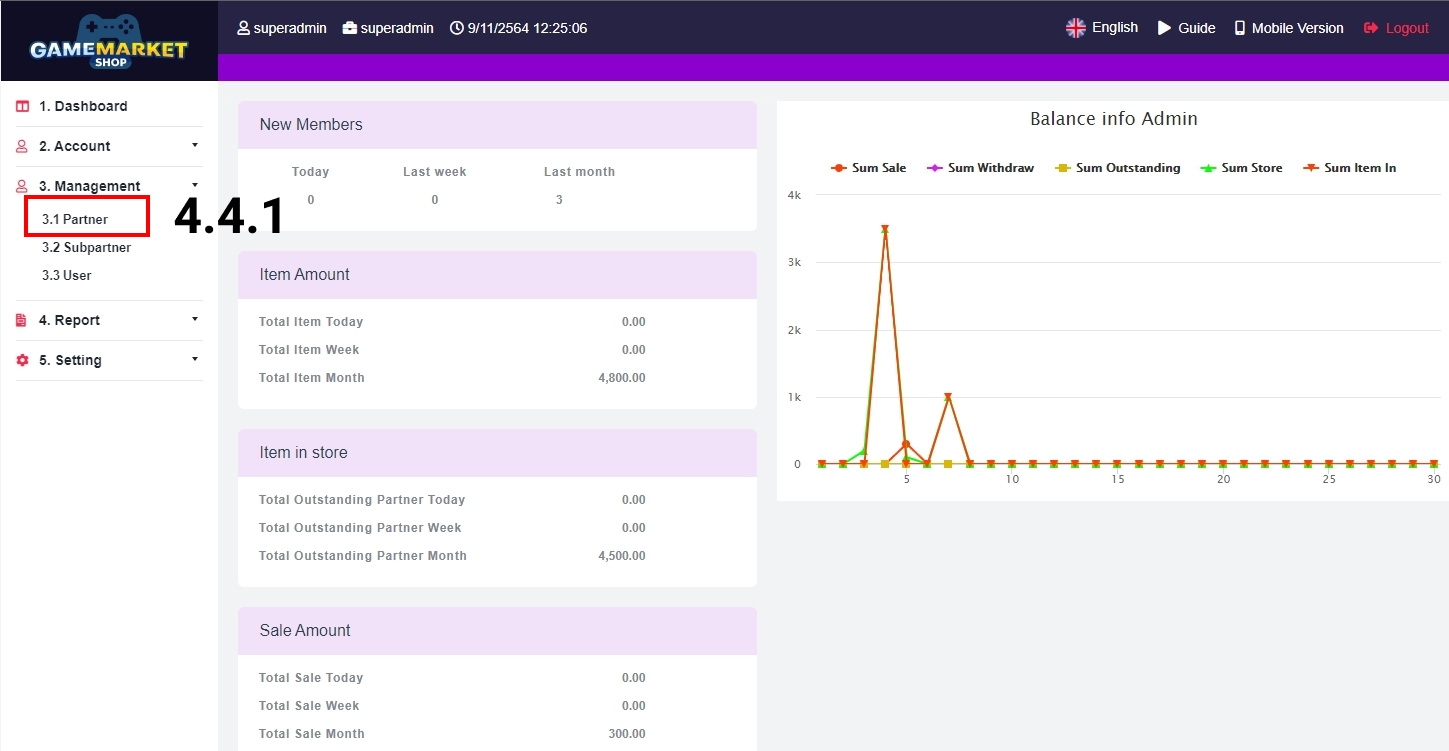
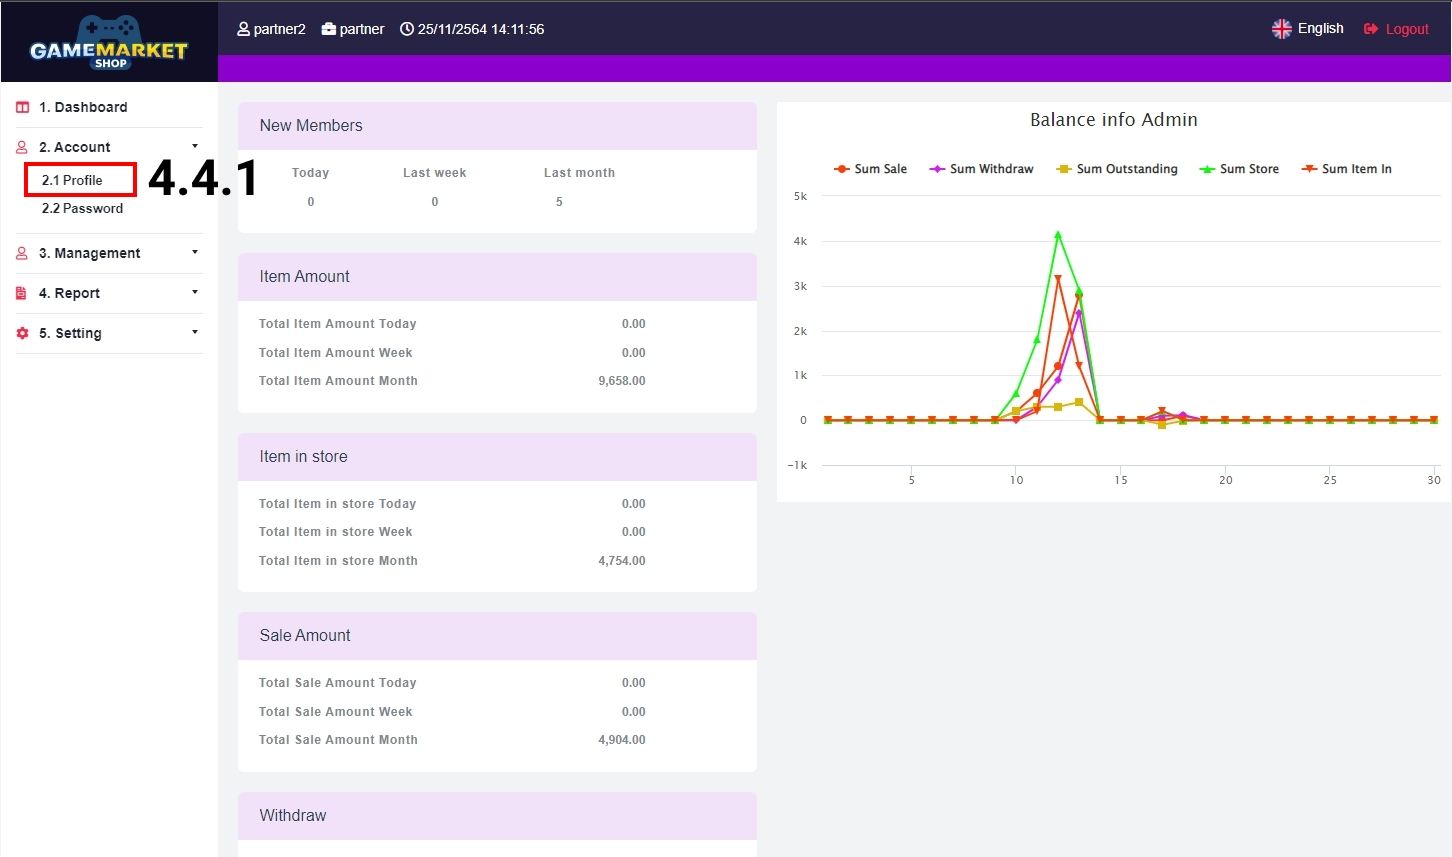
acc key

Changed region(s): [[0.0, 0.0, 1.0, 0.98], [0.559, 0.2756, 0.9938, 0.6431]]

diff --git a/apireport.php b/apireport.php
@@ -350,14 +350,7 @@
                                 </label>
 
                             </div>
-                            <div class="col-12">
-                                <label class="txtHead">
-                                    headers :
-                                </label>
-                                <label>
-                                    content-type application/json
-                                </label>
-                            </div>
+              
 
                         </div>
 
@@ -556,14 +549,7 @@
                                     </label>
 
                                 </div>
-                                <div class="col-12">
-                                    <label class="txtHead">
-                                        headers :
-                                    </label>
-                                    <label>
-                                        content-type application/json
-                                    </label>
-                                </div>
+                            
 
                             </div>
 
@@ -791,14 +777,7 @@
                                         </label>
 
                                     </div>
-                                    <div class="col-12">
-                                        <label class="txtHead">
-                                            headers :
-                                        </label>
-                                        <label>
-                                            content-type application/json
-                                        </label>
-                                    </div>
+              
 
                                 </div>
 
@@ -1113,14 +1092,7 @@
                                             </label>
 
                                         </div>
-                                        <div class="col-12">
-                                            <label class="txtHead">
-                                                headers :
-                                            </label>
-                                            <label>
-                                                content-type application/json
-                                            </label>
-                                        </div>
+                                       
 
                                     </div>
 

diff --git a/seamlessapi.php b/seamlessapi.php
@@ -103,22 +103,15 @@
                 <div class="pb-3"></div>
                 <div class="btn-toolbar mb-3" role="toolbar">
                     <div class="form-group col-12">
-                        <label set-lan="html:1.	Login">&nbsp;&nbsp;&nbsp;&nbsp;&nbsp;&nbsp;&nbsp;&nbsp;&nbsp;&nbsp;&nbsp;&nbsp;&nbsp;&nbsp;&nbsp;4.4.1 คลิกที่หน้า Partner </label>
+                        <label set-lan="html:1.	Login">&nbsp;&nbsp;&nbsp;&nbsp;&nbsp;&nbsp;&nbsp;&nbsp;&nbsp;&nbsp;&nbsp;&nbsp;&nbsp;&nbsp;&nbsp;4.4.1 คลิกที่หน้า Profile </label>
                         <div class="col-12">
                             <img src="./API_files/4.4.1.png" style="width: 90%; margin-left: 10%;">
                         </div>
                         <div class="pb-5"></div>
                         <label set-lan="html:2.	Click">&nbsp;&nbsp;&nbsp;&nbsp;&nbsp;&nbsp;&nbsp;&nbsp;&nbsp;&nbsp;&nbsp;&nbsp;&nbsp;&nbsp;&nbsp;
-                            4.4.2  ที่หน้า Partner คลิกที่ปุ่ม View เพื่อแสดง APi KEY</label>
-
+                            4.4.2 คัดลอก Access Key And Secret Key </label>
                         <div class="col-12">
                             <img src="./API_files/4.4.2.png" style="width: 90%; margin-left: 10%;">
-                        </div>
-                        <div class="pb-5"></div>
-                        <label set-lan="html:2.	Click">&nbsp;&nbsp;&nbsp;&nbsp;&nbsp;&nbsp;&nbsp;&nbsp;&nbsp;&nbsp;&nbsp;&nbsp;&nbsp;&nbsp;&nbsp;
-                            4.4.3 คัดลอก Access Key And Secret Key </label>
-                        <div class="col-12">
-                            <img src="./API_files/4.4.3.png" style="width: 90%; margin-left: 10%;">
                         </div>
                     </div>
                 </div>
